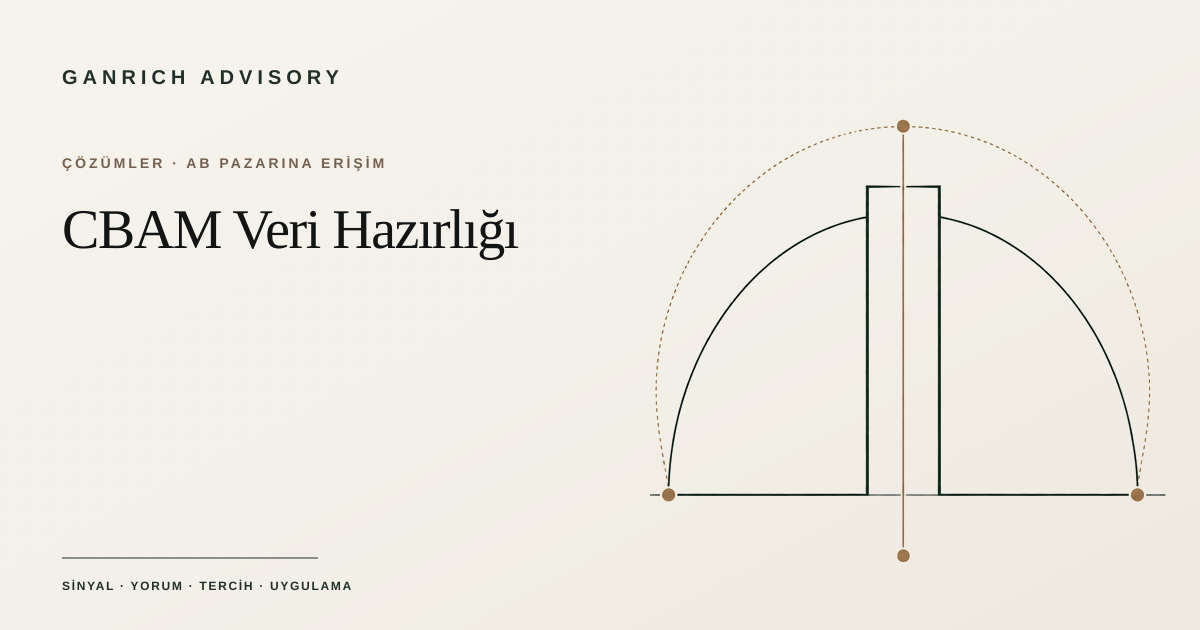
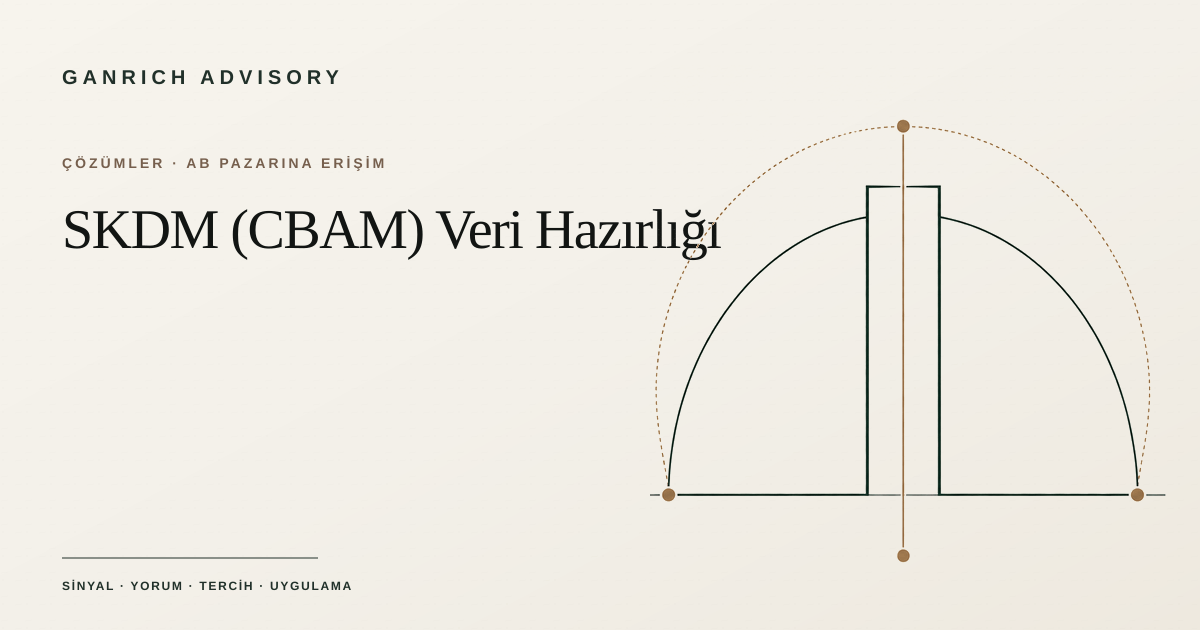
Use "SKDM (CBAM)" on Turkish CBAM pages (#45)
Turkish exporters search for SKDM (Sınırda Karbon Düzenleme Mekanizması),
not CBAM, and the term appeared nowhere on the site. The Turkish programme,
readiness check, homepage card, calendar entry, FAQ and social card now say
"SKDM (CBAM)". URLs and English pages are unchanged.

Claude-Session: https://claude.ai/code/session_017oxsaXoC6QHtaKcCQt4rFW

Changed region(s): [[0.0308, 0.3317, 0.6167, 0.4222]]

diff --git a/app/solutions-content.ts b/app/solutions-content.ts
@@ -48,7 +48,7 @@ export const solutions: Record<Lang, Solution[]> = {
   { key: 'solutionMargin', theme: 'ai', title: 'E-commerce Margin Clarity', tagline: 'See the real contribution of every order and SKU once marketplace, payment and shipping costs are reconciled.', trigger: 'Türkiye’s e-commerce volume passed TRY 4.5 trillion in 2025, according to the Ministry of Trade, yet many multichannel sellers still cannot see margin after fees, returns and shipping.', audience: 'Finance and operations teams at multichannel online sellers.', question: 'Which channels, SKUs and campaigns actually make money for us?', signals: ['Marketplace payouts do not reconcile cleanly with orders.', 'Shipping and return costs are known only in total.', 'Growth decisions rely on revenue, not contribution.'], outcomes: ['Reconciled marketplace, payment and shipping data', 'Contribution by order, SKU and channel', 'Unrecovered fees and leakage made visible', 'A routine report your finance team can trust'], firstStep: 'A contribution analysis on an anonymised sample of your data, showing what reconciliation reveals.', boundaries: 'We do not replace your accounting system or auditor. Data access depends on each marketplace.' },
  ],
  tr: [
-  { key: 'solutionCbam', theme: 'eu', title: 'CBAM Veri Hazırlığı', tagline: 'Dağınık tesis verisini AB ithalatçınızın kullanabileceği bir emisyon dosyasına dönüştürün ve gerçek değerlerin emeğe değip değmediğini görün.', trigger: 'CBAM kesin rejimi 1 Ocak 2026’dan beri uygulanıyor. Yıllık 50 ton eşiğini aşan AB ithalatçılarının yetkili CBAM beyancısı olması gerekiyor ve pek çoğu Türk tedarikçilerinden tesis düzeyinde emisyon verisi istiyor.', audience: 'AB’ye satış yapan demir-çelik ve alüminyum üreticilerinin finans, ihracat ve tesis yöneticileri ile onlara bağlı AB ithalatçıları.', question: 'Gerçek emisyon verisi mi sunmalıyız, yoksa alıcımızın varsayılan değerleri kullanmasına mı izin vermeliyiz?', signals: ['Bir AB alıcısı tesis veya ürün düzeyinde emisyon verisi istedi.', 'Enerji, üretim ve girdi verileri faturalarda, çizelgelerde ve ayrı tablolarda duruyor.', 'Gerçek ve varsayılan değerin fiyat görüşmesine etkisini henüz kimse söyleyemiyor.'], outcomes: ['Her AB alıcısının ürün bazında neye ihtiyaç duyduğunun net resmi', 'Bağımsız doğrulamaya göre düzenlenmiş emisyon veri dosyası', 'Ticari görüşmeye götürebileceğiniz gerçek–varsayılan değer karşılaştırması', 'Tekrarlanan bir veri düzeninin kurulmaya değip değmediğine dair karar'], firstStep: 'Tek ürün ve tek AB alıcısı ilişkisi üzerinde odaklı bir hazırlık incelemesi; sonunda daha kapsamlı hazırlık için net bir devam veya dur kararı.', boundaries: 'Veriyi hazırlar ve düzenleriz. Doğrulama kuruluşu değiliz ve doğrulanmış beyan düzenlemeyiz. Gümrük sınıflandırması ve hukuki danışmanlık görevlendirilen uzmanlarca sağlanır.', paper: { title: 'Gerçek mi, varsayılan mı? Türk metal ihracatçıları için CBAM veri kararı', slug: 'cbam-gercek-mi-varsayilan-mi-ef31215c' } },
+  { key: 'solutionCbam', theme: 'eu', title: 'SKDM (CBAM) Veri Hazırlığı', tagline: 'Dağınık tesis verisini AB ithalatçınızın kullanabileceği bir emisyon dosyasına dönüştürün ve gerçek değerlerin emeğe değip değmediğini görün.', trigger: 'AB’nin Sınırda Karbon Düzenleme Mekanizması (SKDM, AB’deki adıyla CBAM) kesin rejimi 1 Ocak 2026’dan beri uygulanıyor. Yıllık 50 ton eşiğini aşan AB ithalatçılarının yetkili CBAM beyancısı olması gerekiyor ve pek çoğu Türk tedarikçilerinden tesis düzeyinde emisyon verisi istiyor.', audience: 'AB’ye satış yapan demir-çelik ve alüminyum üreticilerinin finans, ihracat ve tesis yöneticileri ile onlara bağlı AB ithalatçıları.', question: 'Gerçek emisyon verisi mi sunmalıyız, yoksa alıcımızın varsayılan değerleri kullanmasına mı izin vermeliyiz?', signals: ['Bir AB alıcısı tesis veya ürün düzeyinde emisyon verisi istedi.', 'Enerji, üretim ve girdi verileri faturalarda, çizelgelerde ve ayrı tablolarda duruyor.', 'Gerçek ve varsayılan değerin fiyat görüşmesine etkisini henüz kimse söyleyemiyor.'], outcomes: ['Her AB alıcısının ürün bazında neye ihtiyaç duyduğunun net resmi', 'Bağımsız doğrulamaya göre düzenlenmiş emisyon veri dosyası', 'Ticari görüşmeye götürebileceğiniz gerçek–varsayılan değer karşılaştırması', 'Tekrarlanan bir veri düzeninin kurulmaya değip değmediğine dair karar'], firstStep: 'Tek ürün ve tek AB alıcısı ilişkisi üzerinde odaklı bir hazırlık incelemesi; sonunda daha kapsamlı hazırlık için net bir devam veya dur kararı.', boundaries: 'Veriyi hazırlar ve düzenleriz. Doğrulama kuruluşu değiliz ve doğrulanmış beyan düzenlemeyiz. Gümrük sınıflandırması ve hukuki danışmanlık görevlendirilen uzmanlarca sağlanır.', paper: { title: 'Gerçek mi, varsayılan mı? Türk metal ihracatçıları için CBAM veri kararı', slug: 'cbam-gercek-mi-varsayilan-mi-ef31215c' } },
   { key: 'solutionCra', theme: 'eu', title: 'CRA Olay Hazırlığı', tagline: 'Bir ürün açığı istismar edildiğinde kimin karar verdiğini, neyin kime bildirildiğini saatler içinde gösterebilin.', trigger: 'AB Siber Dayanıklılık Yasası (CRA) kapsamındaki bildirim yükümlülükleri 11 Eylül 2026’da başladı. Aktif olarak istismar edilen açıklarda ve ciddi olaylarda üreticiler 24 saat içinde erken uyarı, 72 saat içinde bildirim yapmak zorunda.', audience: 'AB’de satılan bağlantılı cihaz, endüstriyel ekipman ve ticari yazılım üreten Türk üreticiler; genellikle ürün, teknoloji veya kalite yöneticisi liderliğinde.', question: 'İstismar edilen bir açık cuma gecesi ortaya çıksa, 24 saatlik süreyi karşılayabilir miyiz?', signals: ['AB’de birden çok ürün ve yazılım sürümü destekleniyor, ancak ürün olaylarının sahibi yok.', 'BT güvenliği var, fakat ürün olayları prova edilmiş bir yol izlemiyor.', 'Sürüm ve bileşen bilgisini hızla bir araya getirmek zor.'], outcomes: ['Hangi ürün ve sürümlerin kapsamda olduğunun net haritası', 'Ürün olayları için belirlenmiş roller ve eskalasyon yolu', 'CRA takvimine uyan hazır bildirim taslakları', 'Gerçekçi bir tatbikattan elde edilen, sonuçlarına göre sıralanmış açıklar'], firstStep: 'Tek ürün ailesinde 24 ve 72 saatlik takvime karşı masa başı tatbikat; ardından kapsamı belirlenmiş hazırlık planı.', boundaries: 'Ürün belgelendirmesi yapmaz, 7/24 olay müdahalesi yürütmez ve üreticinin bildirim sorumluluğunu devralmayız. Gerektiğinde AB hukuk danışmanlığı ayrıca görevlendirilir.', paper: { title: '24 saat testi: AB’ye satış yapan üreticiler için CRA olay hazırlığı', slug: 'cra-24-saat-testi-37aca9ad' } },
   { key: 'solutionEudr', theme: 'eu', title: 'EUDR İzlenebilirlik Dosyası', tagline: 'Ormansızlaşma kuralları uygulanmaya başlamadan AB ithalatçınıza ihtiyaç duyduğu menşe ve coğrafi konum verisini verin.', trigger: 'AB Ormansızlaşma Yönetmeliğinin (EUDR) büyük ve orta işletmeler için 30 Aralık 2026’dan, mikro ve küçük işletmeler için 30 Haziran 2027’den itibaren uygulanması planlanıyor. Ahşap ve mobilya kapsamda; ürün kapsamı 2026’da güncellendi.', audience: 'Türk ahşap ve mobilya ihracatçıları ile durum tespiti beyanı vermesi gereken AB ithalatçıları.', question: 'Kerestemizin nereden geldiğini, sevkiyat bazında ve alıcılarımızın kabul edeceği biçimde kanıtlayabilir miyiz?', signals: ['İthalatçınız tedarikçi, menşe veya coğrafi konum bilgisi istedi.', 'Kereste size menşe verisini elinde tutan tüccarlar üzerinden geliyor.', '2026 güncellemesinden sonra hangi ürünlerin kapsamda kaldığı belirsiz.'], outcomes: ['Ürün grubu bazında kapsam kontrolü', 'Açıkları görünür kılan tedarikçi ve menşe haritası', 'İthalatçı kullanımına hazır coğrafi konum ve parti verisi', 'İthalatçıya hazır durum tespiti veri paketi'], firstStep: 'En yüksek hacimli AB ürün grubunuzda kapsam ve veri erişilebilirliği kontrolü.', boundaries: 'Durum tespiti beyanının sorumluluğu ithalatçıdadır. Hukuki görüş vermez, ormansızlaşmadan arî olma durumunu belgelendirmeyiz.' },
   { key: 'solutionPfas', theme: 'eu', title: 'PFAS İkame Programı', tagline: 'PFHxA içeren işlemleri, müşterilerinizin para ödediği performansı kaybetmeden değiştirin.', trigger: 'PFHxA ve ilişkili maddelere yönelik AB kısıtlaması (2024/2462 sayılı Tüzük) Ekim 2026’dan beri belirli tüketici tekstilleri, ayakkabılar ve gıda temaslı kâğıt-kartonda uygulanıyor; diğer ürün grupları daha sonra kademeli olarak ekleniyor.', audience: 'AB’ye satış yapan kaplamalı tekstil, ayakkabı ve kâğıt-karton ambalaj üreticilerinin kalite ve Ar-Ge ekipleri.', question: 'Hangi ürünlerimiz risk altında ve uyumlu bir alternatife en güvenli yol hangisi?', signals: ['Bir AB alıcısı yeni limitlere ilişkin kanıt istedi.', 'Su veya yağ itici bitim işlemleri birden fazla kimyasal tedarikçisinden geliyor.', 'Önceki ikame denemeleri performans kaybettirdi veya yarım kaldı.'], outcomes: ['Riskli SKU’ların önceliklendirildiği reçete ve tedarikçi envanteri', 'Akredite laboratuvarlarda koordineli testler', 'Hem uyum hem performansla değerlendirilen alternatifler', 'Alıcılar için uyum ve performans dosyası'], firstStep: 'Tek bir malzeme segmentinde, en önemli SKU’ları seçen risk incelemesi.', boundaries: 'Testler akredite laboratuvarlarca yapılır. Kimyasal satmaz, uygunluk sertifikası düzenlemeyiz.' },
@@ -98,7 +98,7 @@ export const solutionTags: Record<Lang, Record<SolutionKey, string[]>> = {
   solutionMargin: ['E-commerce', 'Marketplaces', 'Profitability', 'Finance operations', 'Analytics'],
  },
  tr: {
-  solutionCbam: ['CBAM', 'Karbon emisyonu', 'Demir-çelik ve alüminyum', 'AB mevzuatı', 'İhracat'],
+  solutionCbam: ['SKDM', 'CBAM', 'Karbon emisyonu', 'Demir-çelik ve alüminyum', 'AB mevzuatı', 'İhracat'],
   solutionCra: ['Siber Dayanıklılık Yasası', 'Ürün güvenliği', 'Olay bildirimi', 'AB mevzuatı', 'Üretim'],
   solutionEudr: ['EUDR', 'İzlenebilirlik', 'Ahşap ve mobilya', 'AB mevzuatı', 'Tedarik zinciri'],
   solutionPfas: ['PFAS', 'Kimyasallar', 'Tekstil ve ambalaj', 'AB mevzuatı', 'Ürün uyumu'],

diff --git a/app/readiness-check-content.ts b/app/readiness-check-content.ts
@@ -45,8 +45,8 @@ const cbamCopy = {
     ] as Question[],
   },
   tr: {
-    label: 'CBAM hazırlık testi',
-    title: 'CBAM veriniz AB alıcınız için ne kadar hazır?',
+    label: 'SKDM (CBAM) hazırlık testi',
+    title: 'SKDM (CBAM) veriniz AB alıcınız için ne kadar hazır?',
     intro: 'Sekiz soru, yaklaşık iki dakika. Sonucu hemen görürsünüz. Değerlendirme istemediğiniz sürece hiçbir şey kaydedilmez.',
     answers: ['Evet', 'Kısmen', 'Hayır veya emin değilim'] as const,
     progress: (n: number, total: number) => `${total} sorudan ${n} tanesi yanıtlandı`,
@@ -60,7 +60,7 @@ const cbamCopy = {
     gaps: 'Önce kapatılması gereken boşluklar',
     noGaps: 'Bu sekiz alanda belirgin bir boşluk yok.',
     disclaimer: 'Bu, yol gösterici bir öz değerlendirmedir; uyum görüşü veya doğrulama değildir.',
-    ask: 'CBAM hazırlık değerlendirmesi isteyin',
+    ask: 'SKDM (CBAM) hazırlık değerlendirmesi isteyin',
     askIntro: 'Sonucu gönderin; tek bir ürün ve tek bir AB alıcısı için önce neye bakacağımızı e-postayla yazalım.',
     name: 'Ad soyad', email: 'İş e-postası', company: 'Şirket',
     privacy: 'Gizlilik bildirimini okudum ve talebimin nasıl işleneceğini anladım.', privacyLink: 'Gizlilik bildirimi',
@@ -68,7 +68,7 @@ const cbamCopy = {
     sent: 'Teşekkürler. Sonucunuz Ganrich Advisory’ye ulaştı; e-postayla dönüş yapacağız.',
     error: 'Gönderilemedi. Lütfen tekrar deneyin veya furkangul@ganrichadvisory.com adresine yazın.',
     paper: 'Teknik notu okuyun: Gerçek mi, varsayılan mı?',
-    programme: 'CBAM Veri Hazırlığı programını inceleyin',
+    programme: 'SKDM (CBAM) Veri Hazırlığı programını inceleyin',
     restart: 'Baştan başlayın',
     questions: [
       { q: 'AB’ye sattığınız ürünlerden hangilerinin CBAM kapsamında olduğunu biliyor musunuz (demir-çelik, alüminyum, çimento, gübre, hidrojen, elektrik)?', gap: 'Ürünleri GTİP/KN kodlarıyla eşleştirin ve hangi AB sevkiyatlarının kapsamda olduğunu netleştirin.' },

diff --git a/app/[lang]/[[...slug]]/page.tsx b/app/[lang]/[[...slug]]/page.tsx
@@ -55,7 +55,7 @@ const metaCopy = {
     newsletter: ["Mevzuat Bülteni | Ganrich Advisory", "CBAM, Siber Dayanıklılık Yasası veya EUDR gibi bir AB kuralı değiştiğinde Türk üretici ve ihracatçılara kısa e-posta notları: ne değişti, kimi etkiliyor ve önce neye bakmalı."],
     eudrCheck: ["EUDR Hazırlık Testi | Ganrich Advisory", "Menşe, coğrafi konum ve yasallık verinizin AB ithalatçınızın EUDR durum tespiti beyanı için hazır olup olmadığını sekiz soruda görün; sonuç ve önce kapatılması gereken boşluklar hemen ekranda."],
     craCheck: ["CRA Hazırlık Testi | Ganrich Advisory", "Siber Dayanıklılık Yasası kapsamında aktif olarak istismar edilen bir açığı 24 saat içinde bildirip bildiremeyeceğinizi sekiz soruda görün; sonuç ve önce kapatılması gereken boşluklar hemen ekranda."],
-    cbamCheck: ["CBAM Hazırlık Testi | Ganrich Advisory", "CBAM emisyon verinizin AB alıcınız için hazır olup olmadığını sekiz soruda görün; sonuç ve önce kapatılması gereken boşluklar hemen ekranda."],
+    cbamCheck: ["SKDM (CBAM) Hazırlık Testi | Ganrich Advisory", "SKDM (CBAM) emisyon verinizin AB alıcınız için hazır olup olmadığını sekiz soruda görün; sonuç ve önce kapatılması gereken boşluklar hemen ekranda."],
     decisionLabChangelog: ["Karar Laboratuvarı Değişiklik Günlüğü | Ganrich Advisory", "Ganrich Karar Laboratuvarında nelerin yayında, nelerin değiştiğini ve hangi araçların değerlendirmede olduğunu görün."],
     privateBriefing: ["Özel Yönetici Brifingi | Ganrich Advisory", "Yayımlanmış bir perspektif, sinyal veya araçtan kurumunuza özgü karar hakkında hazırlıklı bir görüşmeye geçin."],
     about: ["Hakkımızda | Ganrich Advisory", "Ganrich Advisory, Türk üretici ve ihracatçılar için strateji ve AB uyum danışmanlığıdır; İstanbul'da Ahmed Furkan Gül liderliğinde çalışır."],

diff --git a/app/solution-faq.ts b/app/solution-faq.ts
@@ -38,7 +38,7 @@ export const solutionFaq: Record<Lang, Record<string, Faq>> = {
   },
   tr: {
     solutionCbam: [
-      ['Yalnızca AB’ye ihracat yapıyorsak CBAM bizi de kapsar mı?', 'Yasal yükümlülükler AB’deki ithalatçıdadır: yetkili CBAM beyancısı olmalı ve ithal ettiği malların gömülü emisyonlarını bildirmelidir. Üretici olarak siz bir beyan vermezsiniz; ancak alıcınız gerçek emisyon değerlerini ancak siz tesis düzeyinde veri sağlarsanız kullanabilir. Veri yoksa ithalatçı varsayılan değerleri kullanmak zorundadır.'],
+      ['Yalnızca AB’ye ihracat yapıyorsak SKDM (CBAM) bizi de kapsar mı?', 'Yasal yükümlülükler AB’deki ithalatçıdadır: yetkili CBAM beyancısı olmalı ve ithal ettiği malların gömülü emisyonlarını bildirmelidir. Üretici olarak siz bir beyan vermezsiniz; ancak alıcınız gerçek emisyon değerlerini ancak siz tesis düzeyinde veri sağlarsanız kullanabilir. Veri yoksa ithalatçı varsayılan değerleri kullanmak zorundadır.'],
       ['Hangi ithalatçılar kapsamda?', 'Kapsamdaki mallardan yılda toplam 50 tonun üzerinde ithalat yapanlar. Bu eşiğin altındaki ithalatçılar muaftır; bu yüzden bazı alıcılar veri isterken bazıları istemez.'],
       ['Gerçek ve varsayılan değer ayrımı neden önemli?', 'Varsayılan değerler ihtiyatlı belirlenir ve bunlara eklenen pay önümüzdeki yıllarda artar. Birçok tesiste doğrulanmış gerçek değerler ithalatçının taşıdığı CBAM maliyetini düşürür; bu maliyet de çoğu zaman fiyat görüşmesine geri döner.'],
       ['Alıcımız bizden hangi verileri ister?', 'Uygulamada: üretim yolu, tesisin doğrudan emisyonları, bazı mallarda elektrikten kaynaklanan dolaylı emisyonlar ve bunları ürün bazına dağıtmak için kullanılan girdi ve çıktılar. Üretim ülkesinde ödenmiş bir karbon fiyatı varsa o da önemlidir.'],

diff --git a/app/advisory.tsx b/app/advisory.tsx
@@ -13,7 +13,7 @@ const ruleTimeline=ruleCalendar.filter(r=>r.home);
 function RuleTimeline({lang}:{lang:Lang}){const en=lang==='en',today=new Date().toISOString().slice(0,10);return <aside className="rule-timeline" aria-label={en?'EU rules timeline':'AB kuralları takvimi'}><p className="kicker">{en?'EU rules your buyers now apply':'Alıcılarınızın artık uyguladığı AB kuralları'}</p><ol>{ruleTimeline.map(r=>{const what=r[lang][0],live=r.date<=today;return <li key={r.id} className={live?'live':'upcoming'}><a href={url(lang,r.key)}><time dateTime={r.date}>{ruleDateLabel(lang,r.date)}</time><span>{what}</span><small>{live?(en?'In force':'Yürürlükte'):(en?'Upcoming':'Yaklaşıyor')}</small></a></li>})}</ol><a className="text-link" href={url(lang,'regulationCalendar')}>{en?'Full calendar with official sources':'Resmî kaynaklarıyla tüm takvim'} ↗</a></aside>}
 // The three readiness checks, linked from the homepage so a visitor can test a rule before asking for a review.
 const readinessChecks:{key:string;en:[string,string];tr:[string,string]}[]=[
- {key:'cbamCheck',en:['CBAM','Is your emissions data ready for your EU buyer?'],tr:['CBAM','Emisyon veriniz AB alıcınız için hazır mı?']},
+ {key:'cbamCheck',en:['CBAM','Is your emissions data ready for your EU buyer?'],tr:['SKDM (CBAM)','Emisyon veriniz AB alıcınız için hazır mı?']},
  {key:'craCheck',en:['Cyber Resilience Act','Could you report an exploited vulnerability within 24 hours?'],tr:['Siber Dayanıklılık Yasası','İstismar edilen bir açığı 24 saat içinde bildirebilir misiniz?']},
  {key:'eudrCheck',en:['EUDR','Would your origin and geolocation data support your importer’s filing?'],tr:['EUDR','Menşe ve coğrafi konum veriniz ithalatçınızın beyanı için yeterli mi?']},
 ];

diff --git a/app/intelligence.tsx b/app/intelligence.tsx
@@ -304,7 +304,7 @@ function IntelligenceHero({ label, title, intro }: { label: string; title: strin
 export function DecisionLabPage({ lang }: { lang: Lang }) {
   const isEn = lang === "en"; const m = routeMap[lang];
   const checks = [
-    [isEn ? "CBAM Readiness Check" : "CBAM Hazırlık Testi", isEn ? "Is your emissions data ready for your EU buyer, and are actual values worth the effort?" : "Emisyon veriniz AB alıcınız için hazır mı, gerçek değerler emeğe değer mi?", m.cbamCheck],
+    [isEn ? "CBAM Readiness Check" : "SKDM (CBAM) Hazırlık Testi", isEn ? "Is your emissions data ready for your EU buyer, and are actual values worth the effort?" : "Emisyon veriniz AB alıcınız için hazır mı, gerçek değerler emeğe değer mi?", m.cbamCheck],
     [isEn ? "CRA Readiness Check" : "CRA Hazırlık Testi", isEn ? "Could you report an actively exploited vulnerability within 24 hours under the Cyber Resilience Act?" : "Siber Dayanıklılık Yasası kapsamında istismar edilen bir açığı 24 saat içinde bildirebilir misiniz?", m.craCheck],
     [isEn ? "EUDR Readiness Check" : "EUDR Hazırlık Testi", isEn ? "Would your origin, geolocation and legality data let your EU importer file its due-diligence statement?" : "Menşe, coğrafi konum ve yasallık veriniz AB ithalatçınızın durum tespiti beyanı için yeterli mi?", m.eudrCheck],
   ];

diff --git a/app/regulation-calendar.ts b/app/regulation-calendar.ts
@@ -27,7 +27,7 @@ export const ruleCalendar: RuleDate[] = [
     tr: ["Avrupa Erişilebilirlik Yasası e-ticarette uygulanıyor", "AB tüketicilerine satış yapan online mağazalar ve belirli ürünler erişilebilirlik şartlarını karşılamalı. Hizmet sunan mikro işletmeler muaf."],
     source: { act: "Directive (EU) 2019/882", url: "https://eur-lex.europa.eu/eli/dir/2019/882/oj" } },
   { id: "cbam", date: "2026-01-01", key: "solutionCbam", check: "cbamCheck", home: true,
-    rule: { en: "CBAM", tr: "CBAM" },
+    rule: { en: "CBAM", tr: "SKDM (CBAM)" },
     en: ["CBAM definitive regime: importers ask for emissions data", "EU importers of steel, aluminium, cement, fertilisers, hydrogen and electricity declare embedded emissions and buy certificates, so they ask their suppliers for actual emissions data."],
     tr: ["CBAM kesin rejimi: ithalatçılar emisyon verisi istiyor", "Çelik, alüminyum, çimento, gübre, hidrojen ve elektrik ithal eden AB şirketleri gömülü emisyonu beyan edip sertifika alıyor; bu yüzden tedarikçilerinden gerçek emisyon verisi istiyor."],
     source: { act: "Regulation (EU) 2023/956", url: "https://eur-lex.europa.eu/eli/reg/2023/956/oj" } },
